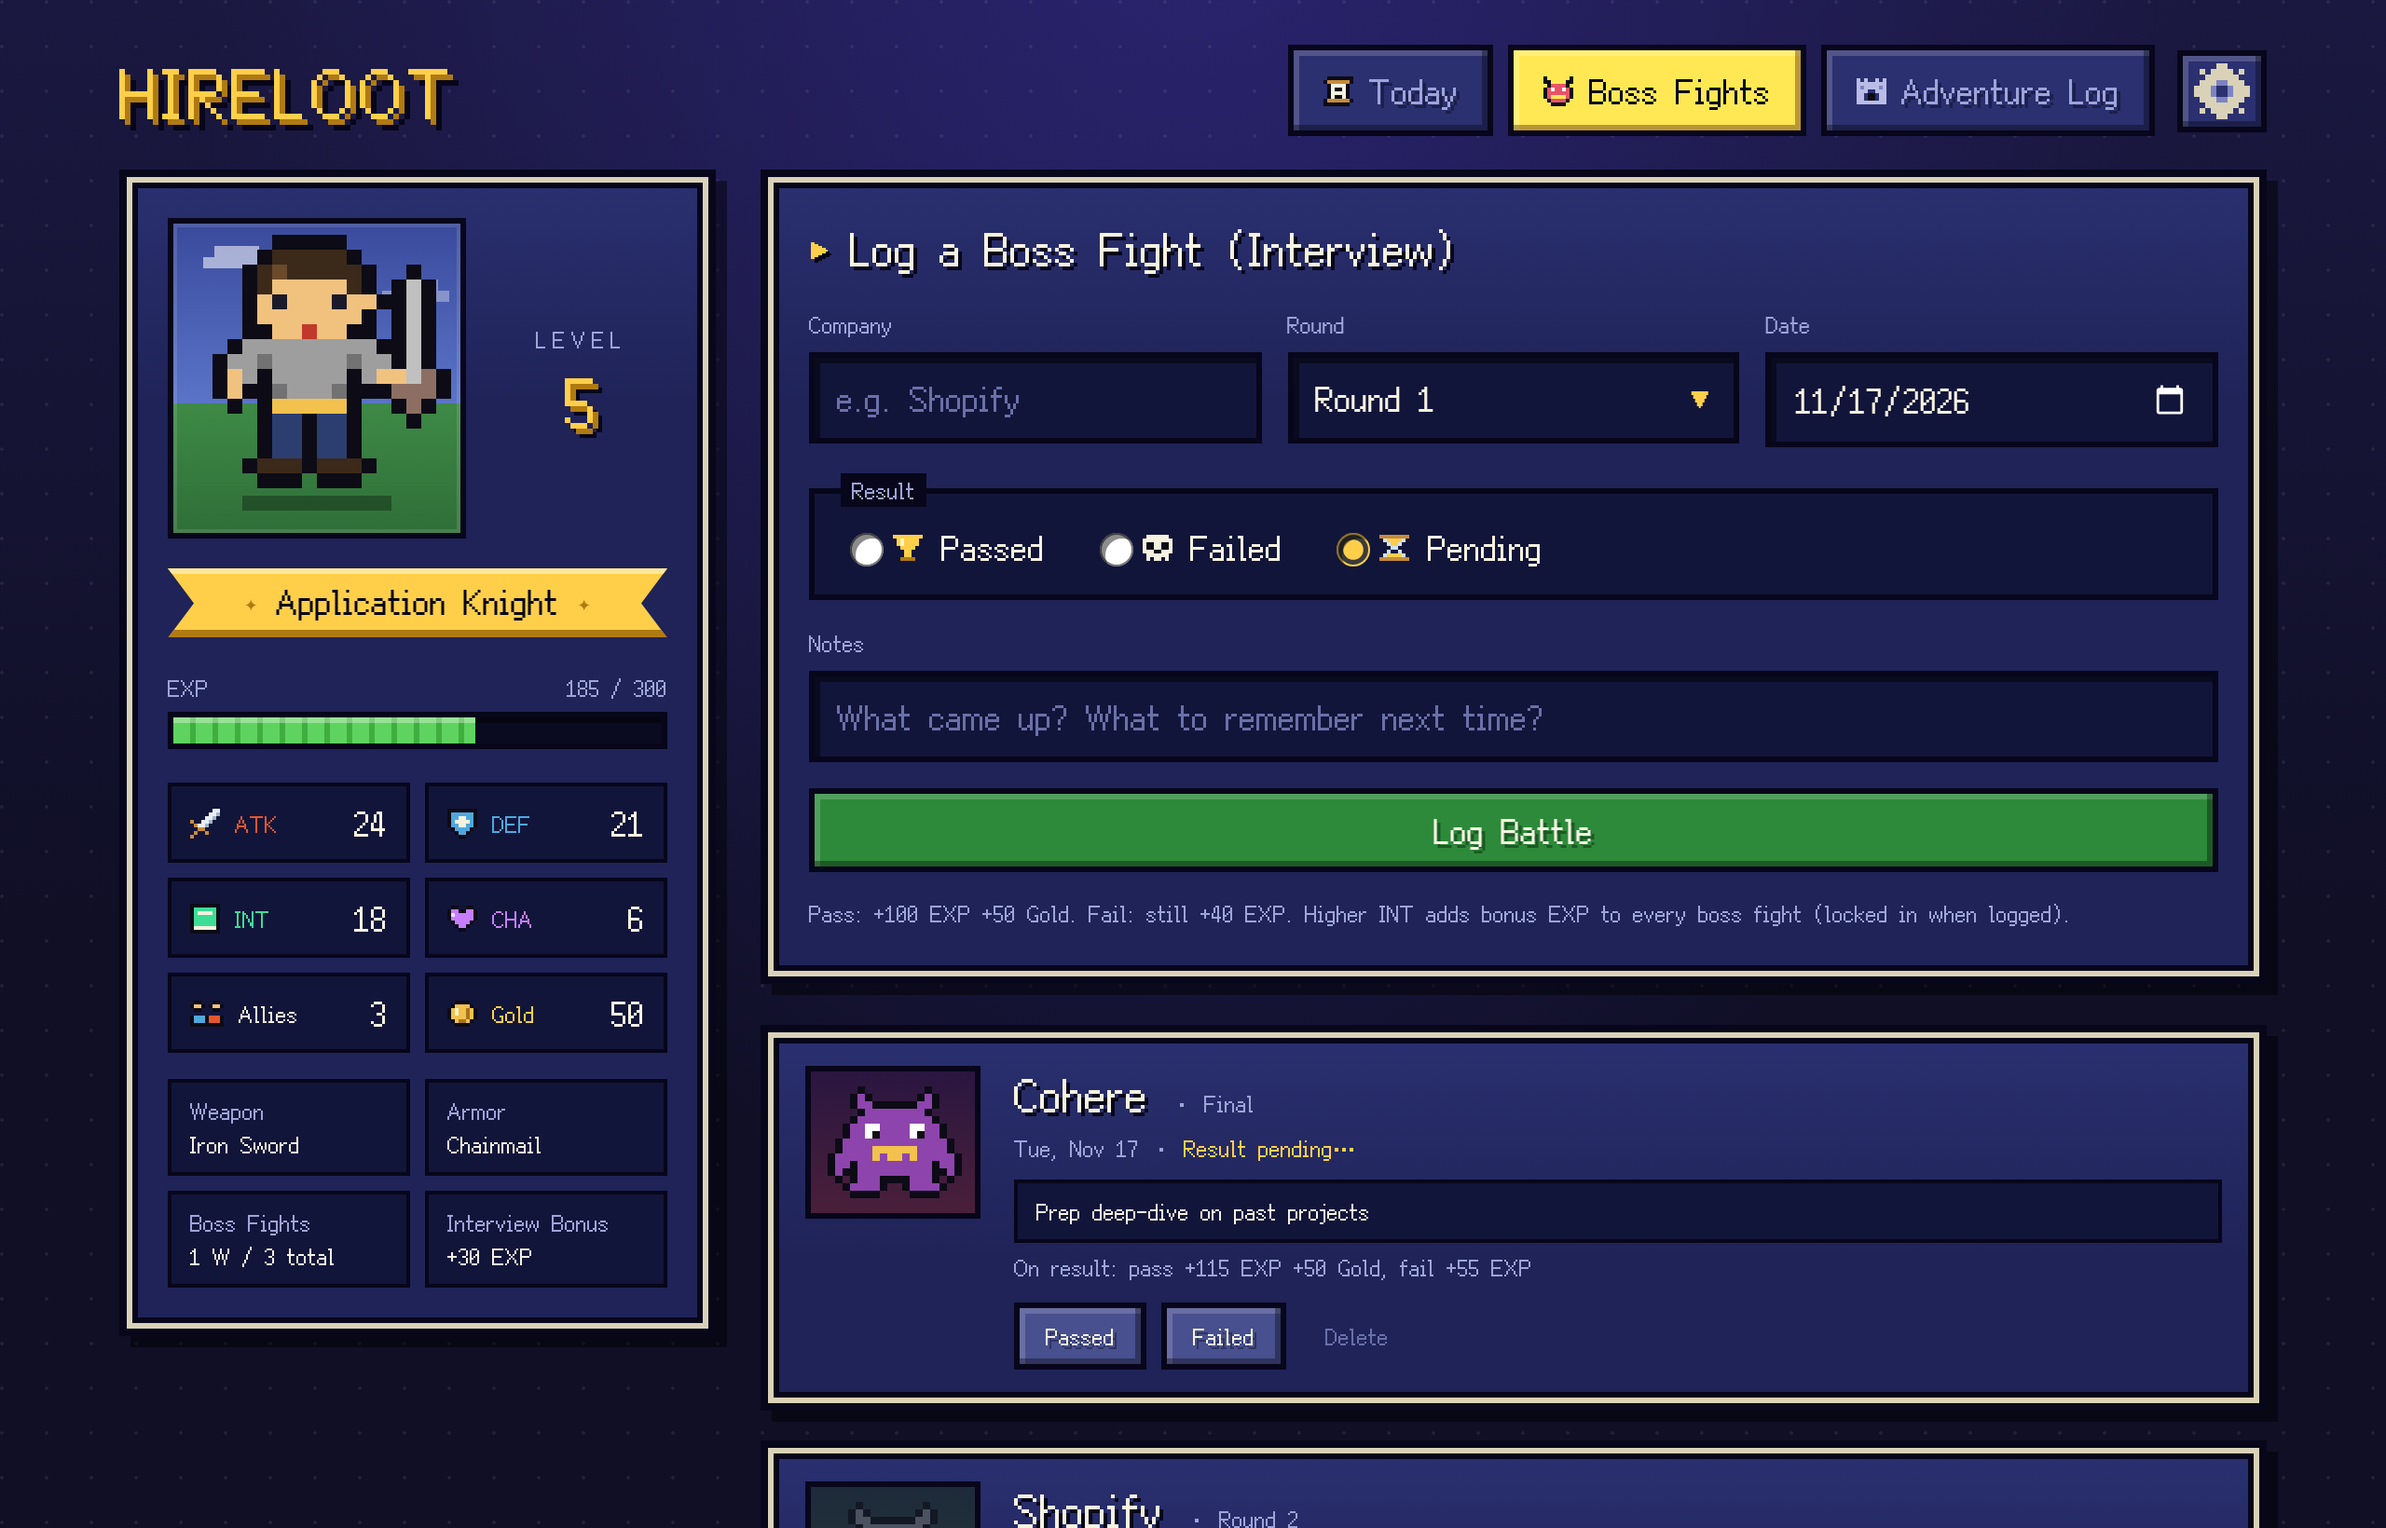
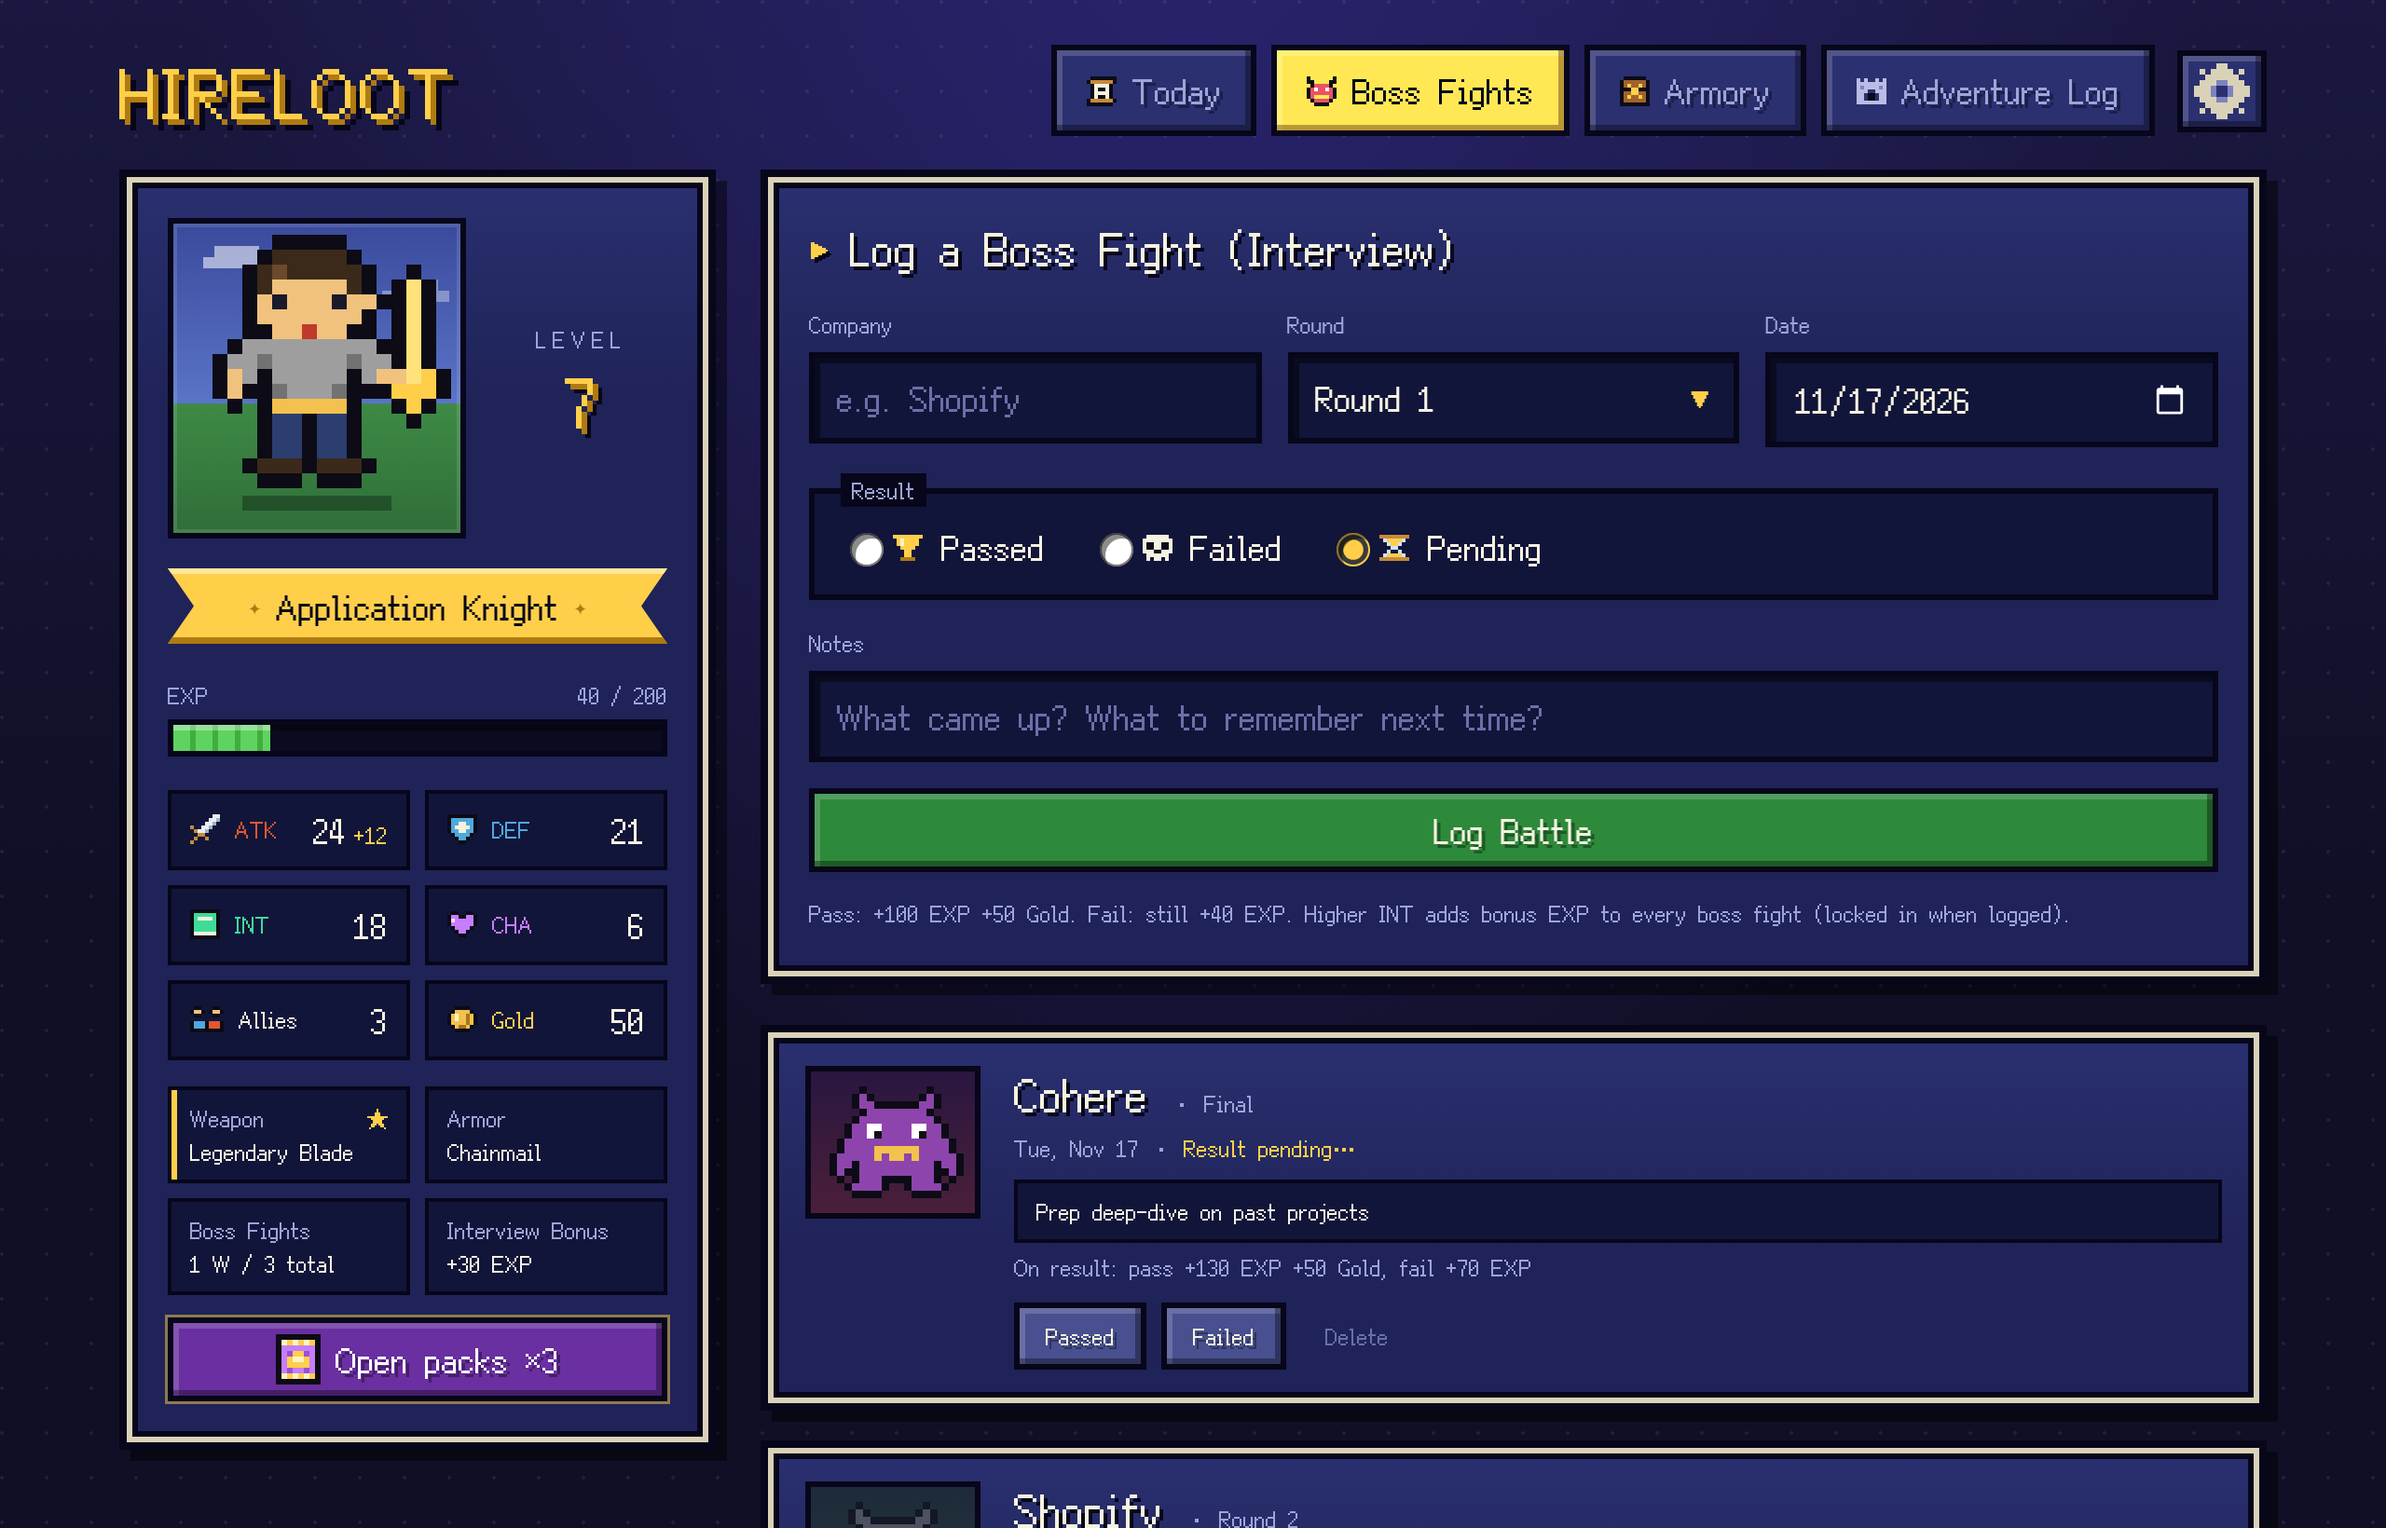
Halve the EXP curve and refresh README screenshots
Each level now needs 50, 75, 100, 125… EXP (was 100, 150, 200, 250…).
The README drops the per-quest reward table, lists the five effort types
inline, and gets new Today, Boss Fights and Armory screenshots in both
languages showing card packs and an equipped armory weapon.

Claude-Session: https://claude.ai/code/session_014E9VW5kqcumKDbp8ov82HS

diff --git a/app.js b/app.js
@@ -134,8 +134,9 @@
     return st;
   }
   function levelInfo(exp) {
-    let lv = 1, need = 100, rest = exp;
-    while (rest >= need) { rest -= need; lv += 1; need = 100 + (lv - 1) * 50; }
+    // 每级所需经验：50, 75, 100, 125…（第 n 级升下一级要 25 + 25n）
+    let lv = 1, need = 50, rest = exp;
+    while (rest >= need) { rest -= need; lv += 1; need = 50 + (lv - 1) * 25; }
     return { lv, cur: rest, need };
   }
   const W = window.HirelootWeapons;

diff --git a/README.md b/README.md
@@ -27,21 +27,15 @@ You can't control when the offer comes. You can control showing up every day. Hi
 
 ## How to play
 
-**1. Accept today's quests.** Write down what you plan to do today. A task starts as *Uncategorized*. If it counts as job-hunt effort, file it under one of five types:
-
-| Effort | Reward per quest | What it grows |
-| --- | --- | --- |
-| ⚔ Project | +3 ATK, +20 EXP | Builds ATK (weapons come from level-up packs) |
-| 🛡 Resume | +3 DEF, +15 EXP | Your armor: Cloth → Leather → … → Dragon Scale |
-| ✉ Applications | +30 EXP | The fastest way to level up |
-| ❤ Networking | +2 CHA, +1 Ally, +15 EXP | Every conversation recruits an ally |
-| 📖 Interview Prep | +3 INT, +15 EXP | Bonus EXP in every boss fight |
+**1. Accept today's quests.** Write down what you plan to do today. A task starts as *Uncategorized*. If it counts as job-hunt effort, file it under Project, Resume, Applications, Networking or Interview Prep, and finishing it grows the matching stats and EXP.
 
 **2. Check them off.** Rewards land right away. Anything you don't finish carries over to tomorrow, marked with how many days it's been waiting. No guilt, just a reminder.
 
 **3. Fight bosses.** Log each interview with the company and round. Pass it and you earn +100 EXP and 50 gold. Fail it and you still walk away with +40 EXP, because every interview teaches you something. Don't know the result yet? Log it as *Pending* and settle it later.
 
 **4. Level up, open packs.** Every level-up gives you 3 weapon packs. Tear one open to reveal a weapon: Common, Rare, Epic or Legendary, and the Epic and Legendary cards are holographic. The Armory holds all 37 weapons, and the ones you haven't found yet show only a black silhouette and "???". Duplicates add stars. Equip your favorite and your hero carries it.
+
+![Armory](docs/en-armory.png)
 
 **5. Look back.** The Adventure Log files every finished quest by day, so on the slow weeks you can see how much you've actually done.
 

diff --git a/README.zh-CN.md b/README.zh-CN.md
@@ -27,21 +27,15 @@ Offer 什么时候来，你决定不了。但每天坚持出现，你可以。Hi
 
 ## 怎么玩
 
-**1. 接下今天的任务。** 写下今天要做的事。任务默认是「无分类」；如果它算求职上的努力，就归到五类之一：
-
-| 努力 | 每完成一项 | 成长 |
-| --- | --- | --- |
-| ⚔ 项目 | +3 攻击，+20 EXP | 攻击一路涨（武器靠升级开卡包） |
-| 🛡 简历 | +3 防御，+15 EXP | 防具：布衣 → 皮甲 → … → 龙鳞甲 |
-| ✉ 投递 | +30 EXP | 升级最快的方式 |
-| ❤ Networking | +2 魅力，+1 盟友，+15 EXP | 每次交流都结识一位盟友 |
-| 📖 面试准备 | +3 智力，+15 EXP | 每场 Boss 战额外加经验 |
+**1. 接下今天的任务。** 写下今天要做的事。任务默认是「无分类」；如果它算求职上的努力，就归到项目、简历、投递、Networking、面试准备这五类之一，完成后就会涨对应的属性和经验。
 
 **2. 勾掉完成的任务。** 奖励马上到账。今天没做完的会自动顺延到明天，并标出拖了几天。不用自责，只是提醒。
 
 **3. 打 Boss。** 每场面试记一笔：公司和轮次。通过拿 +100 EXP 和 50 金币；没过也有 +40 EXP，因为每一场面试都会让你学到东西。结果还没出？先记「待定」，出结果再结算。
 
 **4. 升级开卡包。** 每升一级送 3 个武器卡包。撕开卡包会翻出一把武器，分普通、稀有、史诗、传说四档，史诗和传说是镭射卡。武器库里收着全部 37 把武器，没抽到的只显示黑色剪影和「???」。抽到重复的武器会升星，挑一把装备上，角色手里的武器就换成它。
+
+![武器库](docs/zh-armory.png)
 
 **5. 回头看看。** 冒险日志按天归档每一个完成的任务。在没有进展的那几周，你能看到自己其实做了多少。
 
